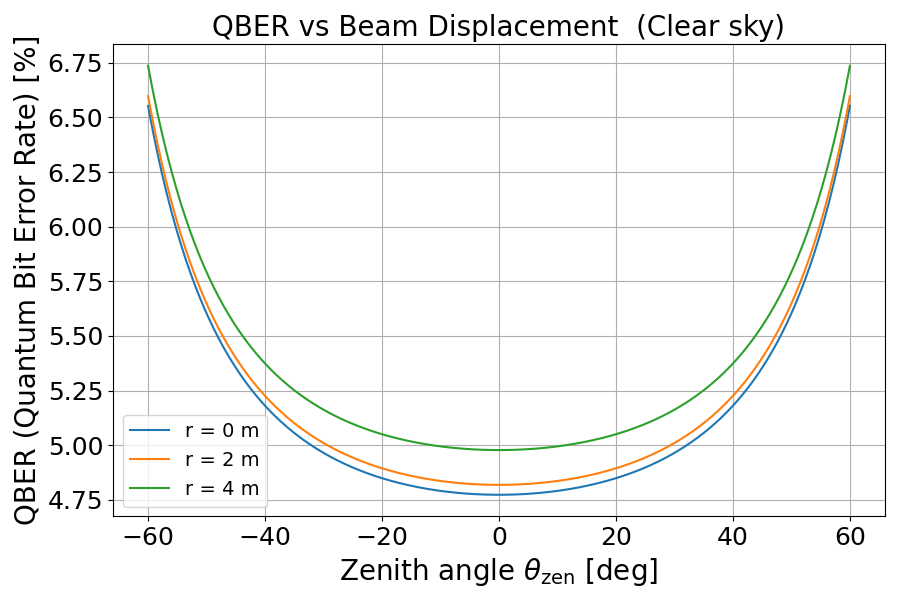
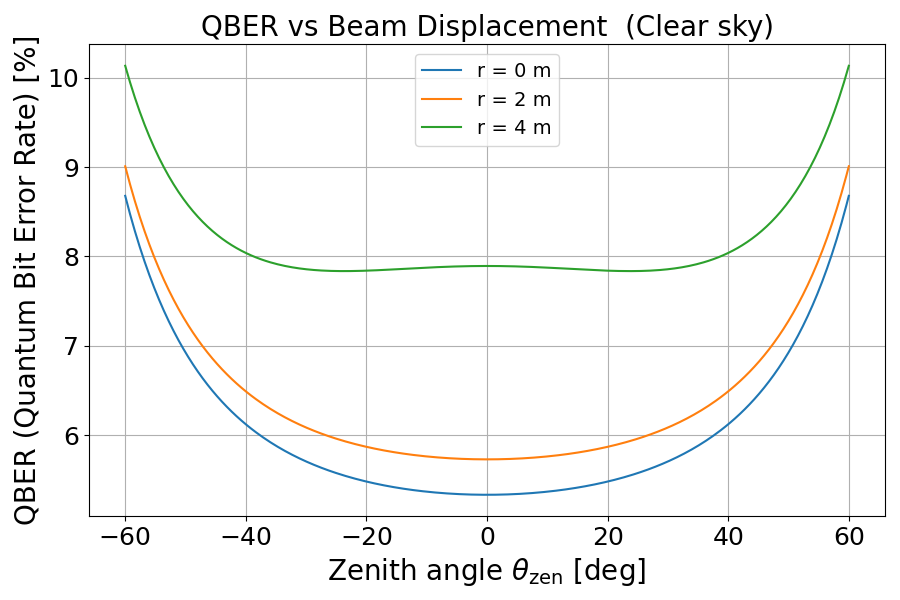
change value of GS altitude

diff --git a/BB84/SimulationResult/Circle_beam/QBER/qber_zenith.py b/BB84/SimulationResult/Circle_beam/QBER/qber_zenith.py
@@ -16,30 +16,24 @@ from qber import qber_loss
     #=====================#
     # tau_zen   : Transmission efficiency at zenith
     #======================#
-# tau_zen = 0.91 # (Clear Sky)
+tau_zen = 0.91 # (Clear Sky)
 # tau_zen = 0.85 # (Slightly hazy)
 # tau_zen = 0.75 # (Noticeably hazy)
-tau_zen = 0.53 # (Poor visibility)
+# tau_zen = 0.53 # (Poor visibility)
 
 #=======================================================#
 # eta_b parameters (Pointing)
 #=======================================================#
     #=====================#
-    # a       : Aparture radius
-    # G       : Gravitational constant
-    # M_T     : Earth's mass
-    # D_E     : Earth's radius (km)
+    # a       : Aparture radius (m)
     # h_s     : Satellite's altitude (m)
-    # H_a     : Receiver's altitude
-    # theta_d : Divergence angle
+    # H_a     : Receiver's altitude (m)
+    # theta_d : Divergence angle (rad)
     #======================#
-a = 0.75               
-G = 6.67430e-11       
-M_T = 5.972e24      
-D_E = 6378e3       
+a = 0.75                    
 h_s = 500e3       
-H_a = 0.01
-theta_d_rad = 20e-6
+H_g = 0.01
+theta_d_rad = 10e-6
 
 
 #=======================================================#
@@ -52,7 +46,7 @@ theta_d_rad = 20e-6
     # P_AP  : After-pulsing probability
     # e_pol : Probability of the polarisation errors
     #======================#
-# n_s = 0.5
+n_s = 0.1
 # e_0 = 0.5
 # Y_0 = 1e-4
 # P_AP = 0.02
@@ -66,7 +60,7 @@ def weather_condition(tau_zen):
         weather = 'Slightly hazy'
     elif tau_zen == 0.75:
         weather = 'Noticeably hazy'
-    else:
+    elif tau_zen == 0.53:
         weather = 'Poor visibility'
     return weather
 
@@ -89,15 +83,15 @@ def main():
             theta_zen_rad = math.radians(theta_zen_deg)
 
             # 距離・ビームウエスト
-            L_a = satellite_ground_distance(h_s, H_a, theta_zen_rad)
-            waist = beam_waist(h_s, H_a, theta_zen_rad, theta_d_rad)
+            L_a = satellite_ground_distance(h_s, H_g, theta_zen_rad)
+            waist = beam_waist(h_s, H_g, theta_zen_rad, theta_d_rad)
 
             # 伝搬効率
             eta_t = transmissivity_etat(tau_zen, theta_zen_rad)
             eta_b = transmissivity_etab(a, r, waist)
 
             gamma = eta_b * eta_t
-            qber = qber_loss(gamma) * 100  # [%]
+            qber = qber_loss(gamma, n_s) * 100  # [%]
 
             qber_values.append(qber)
 

diff --git a/BB84/Model/qber.py b/BB84/Model/qber.py
@@ -1,17 +1,13 @@
 from scipy.special import lambertw, i0, i1
 import math
 import numpy as np
-# from Model.eliptic_beam_transmissivity import transmissivity, to_decimal_string
+from circle_beam_transmissivity import transmissivity_etab, beam_waist
+from atmospheric_transmissivity import transmissivity_etat
 
-
-a = 0.75      # Aperture of radius (Receiver radis in meters)
-ratios = np.arange(0, 3.1, 0.1)
-r0 = [r * a for r in ratios]
-mag_w1 = [0.2, 1.0, 1.8]
-mag_w2 = [0.1, 0.9, 1.7]
-chi = [math.pi/3, math.pi/4, math.pi/5]
-chi_show = [3, 4, 5]
-
+a = 0.75                    
+h_s = 500e3       
+H_g = 10
+theta_d_rad = 10e-6
 
 #=======================================================#
 # QBER parameters
@@ -23,13 +19,12 @@ chi_show = [3, 4, 5]
     # P_pa  : After-pulsing probability
     # e_pol : Probability of the polarisation errors
     #======================#
-n_s = 0.8
 e_0 = 0.5
 Y_0 = 1e-4
 P_AP = 0.02
 e_pol = 0.033
 
-def qber_loss(gamma):
+def qber_loss(gamma, n_s):
     denominator =  e_0 * (Y_0*(1+P_AP)) + (e_pol+e_0*P_AP) * (1-np.exp(-n_s*gamma))
     numerator = (Y_0*(1+P_AP)) + (1-np.exp(-n_s*gamma)) * (1+P_AP)
 
@@ -42,8 +37,16 @@ def to_decimal_string(x, precision=120):
     return format(x, f'.{precision}f').rstrip('0').rstrip('.')
 
 def main():
-    gamma = 0.5/100
-    prob_error = qber_loss(gamma) * 100
+    n_s = 0.1
+    r = 4
+    tau_zen = 0.91
+    theta_zen_rad = math.radians(60)
+    waist = beam_waist(h_s, H_g, theta_zen_rad, theta_d_rad)
+    eta_t = transmissivity_etat(tau_zen, theta_zen_rad)
+    eta_b = transmissivity_etab(a, r, waist)
+    print(f'eta_b {eta_b}')
+    gamma = eta_b * eta_t
+    prob_error = qber_loss(gamma, n_s) * 100
     print(f'QBER: {prob_error} %')
 
 if __name__ == "__main__":

diff --git a/BB84/SimulationResult/Circle_beam/QBER/new_qber_zenith.py b/BB84/SimulationResult/Circle_beam/QBER/new_qber_zenith.py
@@ -25,15 +25,32 @@ H_a = 0.01
 theta_d_rad = 20e-6
 
 
-def qner_new_infinite(eta_b, eta_t):
-    params = get_beam_jitter_params(condition="strong", theta_d_rad=theta_d_rad)
+def get_condition_from_theta(theta_zen_rad):
+    theta_deg = abs(math.degrees(theta_zen_rad))
+    if theta_deg < 20:
+        return "weak"
+    elif theta_deg < 40:
+        return "moderate"
+    else:
+        return "strong"
+
+
+#==================================================================#
+# fading_loss : PDF of beam jitter for γ
+# qber_loss   : Transmission efficiency Bit error rate with respect to γ
+#==================================================================#
+def qner_new_infinite(theta_zen_rad, eta_b):
+    eta_t = transmissivity_etat(tau_zen, theta_zen_rad)
+    gamma_mean = eta_b * eta_t  # 中心値として使う
+    
+    params = get_beam_jitter_params(condition=condition, theta_d_rad=theta_d_rad)
     mu_x = params["mu_x"]
     mu_y = params["mu_y"]
     sigma_x = params["sigma_x"]
     sigma_y = params["sigma_y"]
 
-    def integrand(gamma):
-        return fading_loss(gamma, mu_x, mu_y, sigma_x, sigma_y) * qber_loss(gamma)
+    def integrand(gamma_mean):
+        return fading_loss(gamma_mean, mu_x, mu_y, sigma_x, sigma_y) * qber_loss(gamma_mean)
 
     result, _ = quad(integrand, 0, 1, limit=100, epsabs=1e-9, epsrel=1e-9)
     return result
@@ -65,7 +82,7 @@ def main():
         eta_t = transmissivity_etat(tau_zen, theta_zen_rad)
         eta_b = transmissivity_etab(a, r, waist)
 
-        qber = qner_new_infinite(eta_b, eta_t)
+        qber = qner_new_infinite(theta_zen_rad, eta_b)
         qber_values.append(qber)
 
     # グラフ描画
@@ -89,4 +106,3 @@ def main():
 
 if __name__ == "__main__":
     main()
-

diff --git a/BB84/SimulationResult/Circle_beam/QBER/qber_displacement.py b/BB84/SimulationResult/Circle_beam/QBER/qber_displacement.py
@@ -17,27 +17,21 @@ from qber import qber_loss
     # tau_zen   : Transmission efficiency at zenith
     # theta_zen : zenith angle
     #======================#
-tau_zen = 0.85
+tau_zen = 0.91
 
 #=======================================================#
 # eta_b parameters (Pointing)
 #=======================================================#
     #=====================#
-    # a       : Aparture radius
-    # G       : Gravitational constant
-    # M_T     : Earth's mass
-    # D_E     : Earth's radius (km)
+    # a       : Aparture radius (m)
     # h_s     : Satellite's altitude (m)
-    # H_a     : Receiver's altitude
-    # theta_d : Divergence angle
+    # H_a     : Ground station altitude (m)
+    # theta_d : Divergence angle (rad)
     #======================#
-a = 0.75               
-G = 6.67430e-11       
-M_T = 5.972e24      
-D_E = 6378e3       
+a = 0.75                 
 h_s = 500e3       
-H_a = 0.01
-theta_d_rad = 20e-6
+H_g = 10
+theta_d_rad = 10e-6
 
 
 #=======================================================#
@@ -80,8 +74,8 @@ def main():
 
     for theta_zen_rad in theta_list:
         # 距離 R(t)
-        L_a = satellite_ground_distance(h_s, H_a, theta_zen_rad)
-        waist = beam_waist(h_s, H_a, theta_zen_rad)
+        L_a = satellite_ground_distance(h_s, H_g, theta_zen_rad)
+        waist = beam_waist(h_s, H_g, theta_zen_rad)
 
         eta_t = transmissivity_etat(tau_zen, theta_zen_rad)
 

diff --git a/BB84/Model/circle_beam_transmissivity.py b/BB84/Model/circle_beam_transmissivity.py
@@ -18,7 +18,7 @@ a = 0.75
 #=======================================================#
 
 # Receiver altitude(アンテナの高さ e.g., 10m)
-H_g = 0.01
+H_g = 10
 
 # Divergence angle
 theta_d_rad = 20e-6
@@ -145,16 +145,16 @@ def simulation_eta_b(h_s):
     # h_s = 500e3 # (km)
     #====================================#
     #====================================#
-    displacement = [0, 0.5, 1.0, 1.5, 2.0, 2.5, 3.0]
-    r = [a*d for d in displacement]
-    waist = beam_waist(h_s, t)
-    print(f'Beam waist: {waist}')
-    print("===============================")
-    print(f'Aperture of radius (Receiver radis in meters): {a} m')
-    for displacement in r:
-        eta_b = transmissivity_etab(a, displacement, waist)
-        print(f"r = {displacement}, eta_b = {eta_b}")
-    print("===============================\n")
+    # displacement = [0, 0.5, 1.0, 1.5, 2.0, 2.5, 3.0]
+    # r = [a*d for d in displacement]
+    # waist = beam_waist(h_s, t)
+    # print(f'Beam waist: {waist}')
+    # print("===============================")
+    # print(f'Aperture of radius (Receiver radis in meters): {a} m')
+    # for displacement in r:
+    #     eta_b = transmissivity_etab(a, displacement, waist)
+    #     print(f"r = {displacement}, eta_b = {eta_b}")
+    # print("===============================\n")
     
     print("Simulation Finish !!")
 
